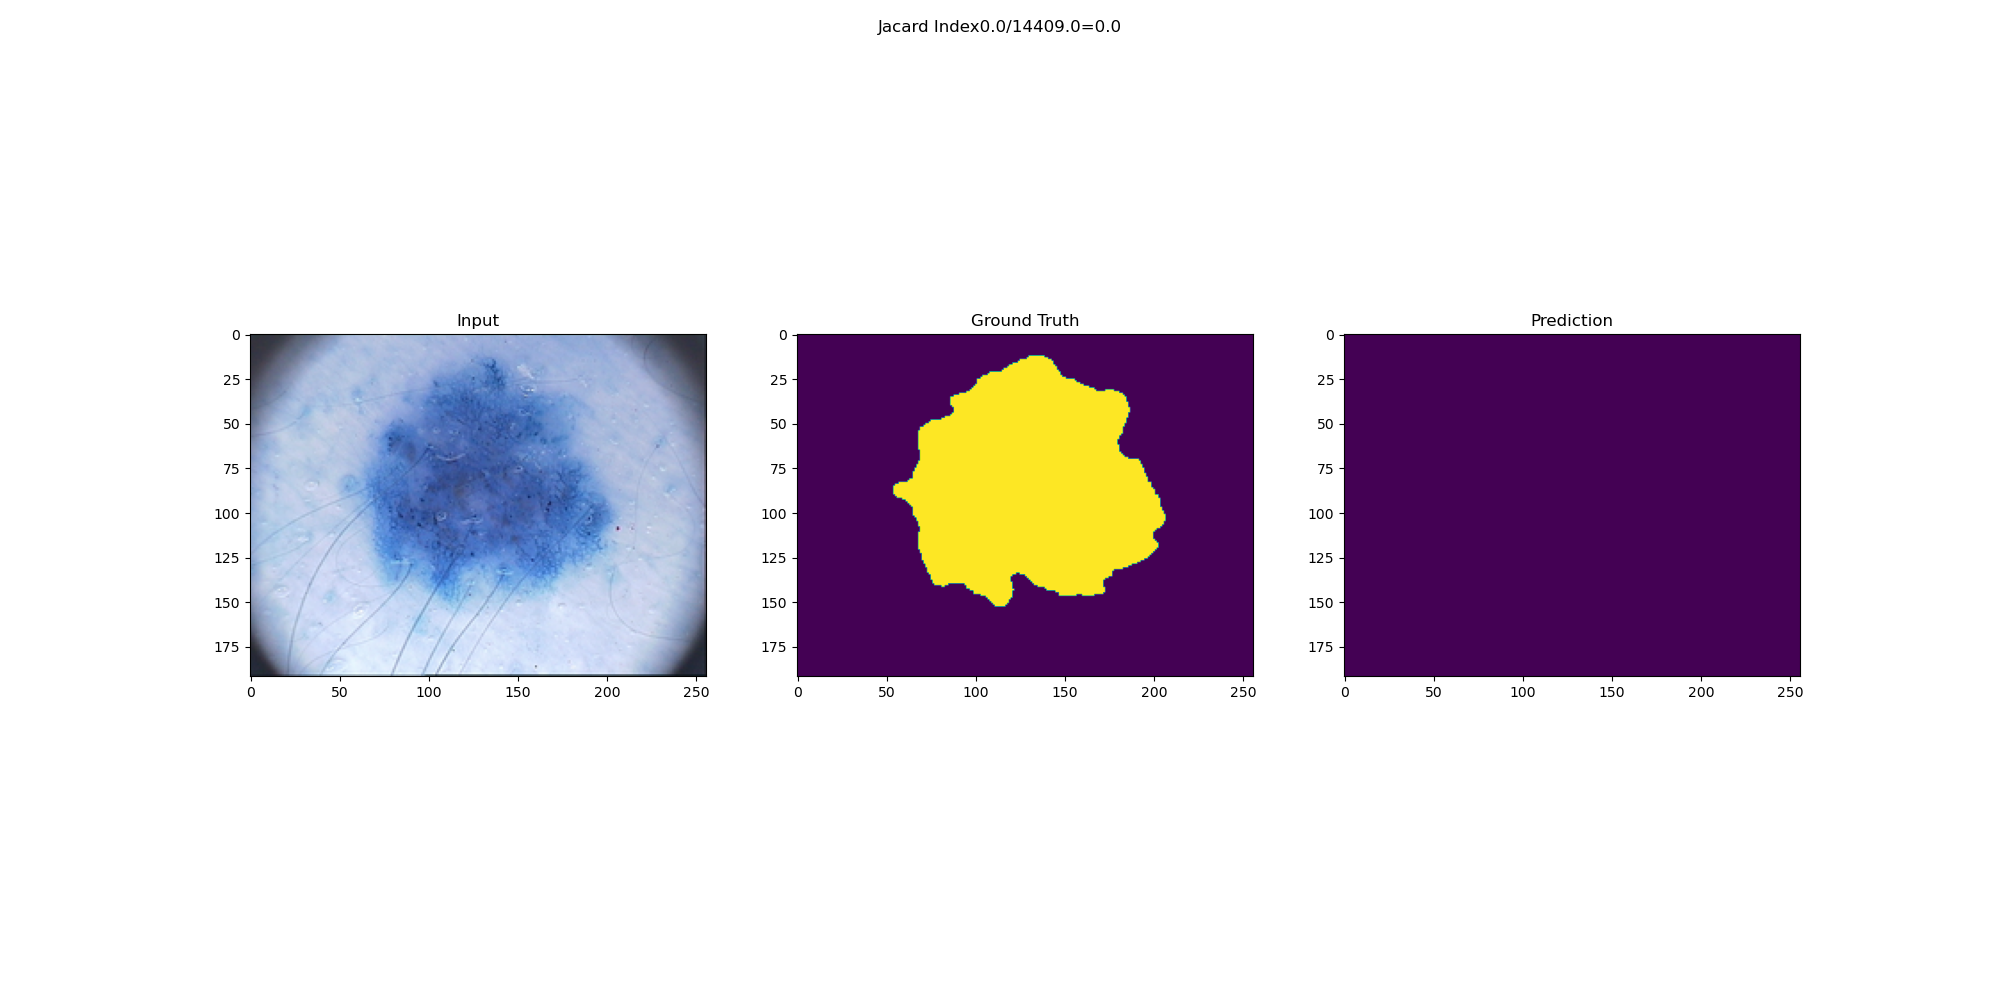
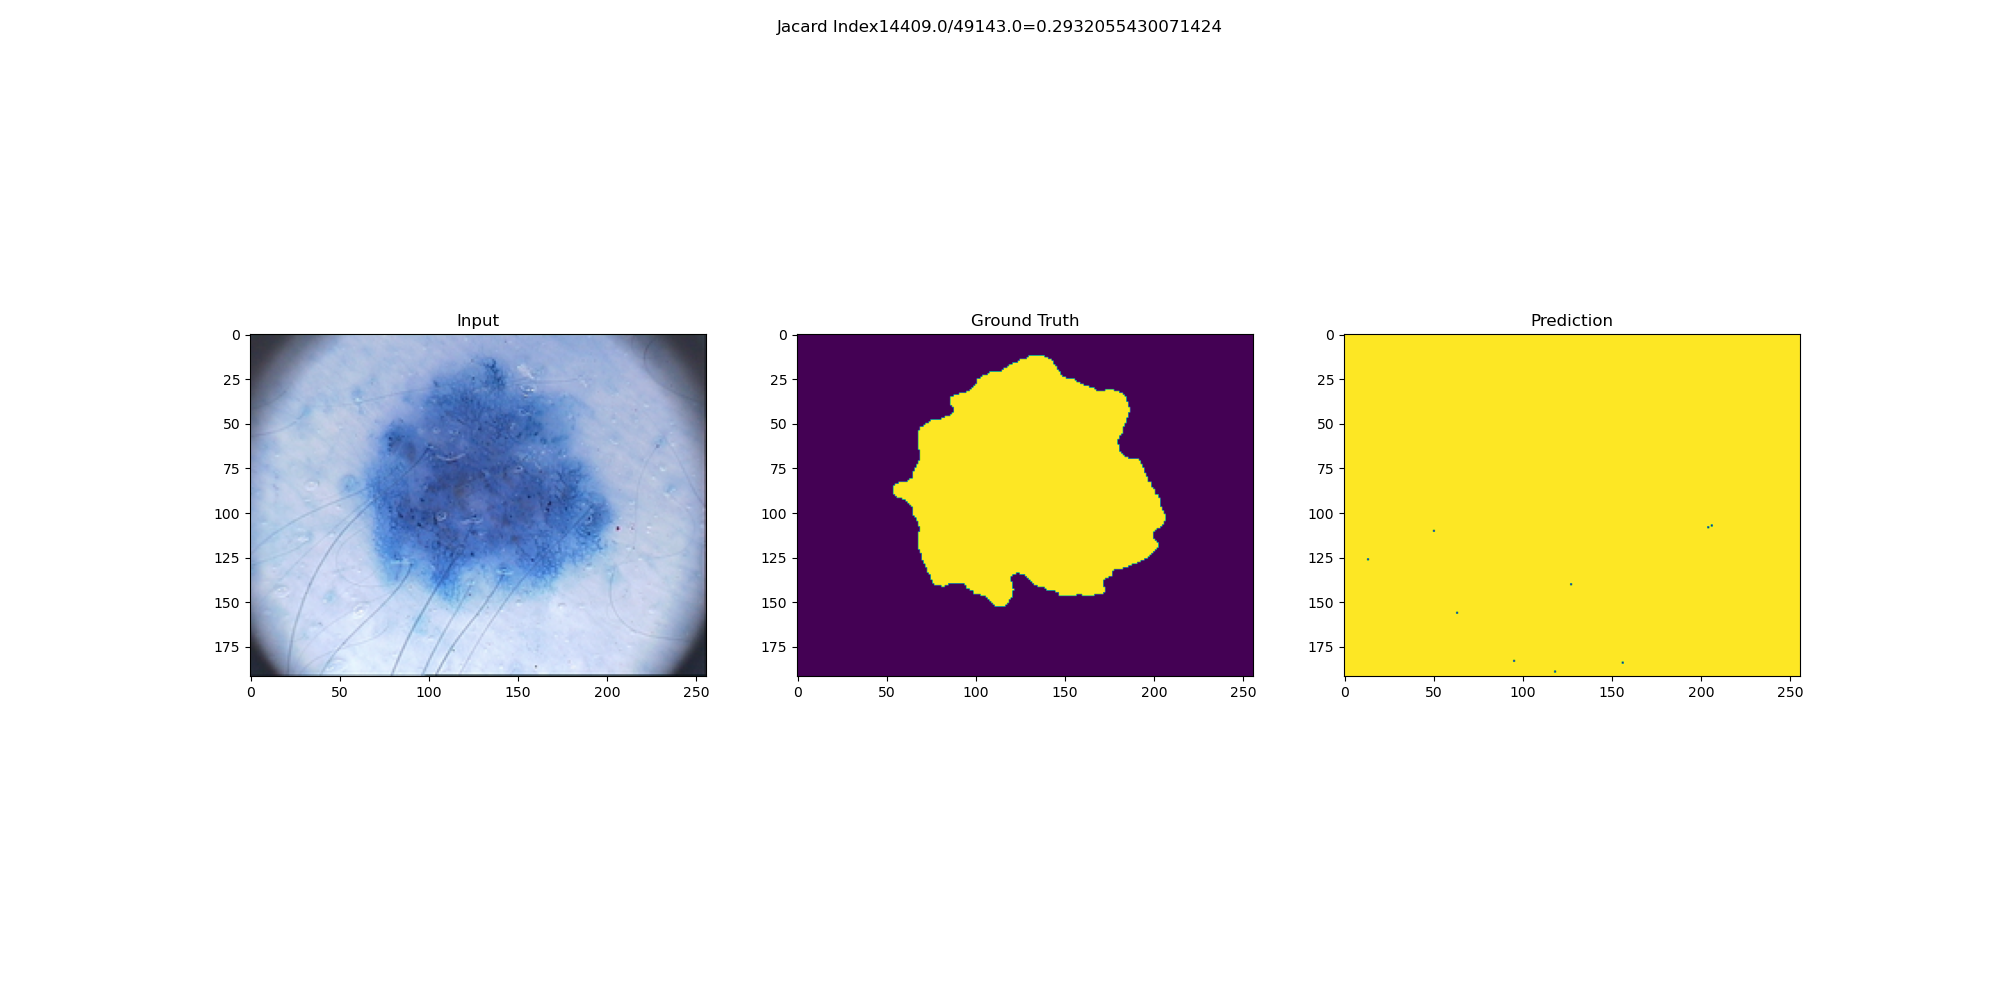
completed this stuff

Changed region(s): [[0.651, 0.31, 0.899, 0.682], [0.403, 0.0, 0.589, 0.031]]

diff --git a/SKIN_LEISON/FinalBayes/bayes_drrmsan_skin.py b/SKIN_LEISON/FinalBayes/bayes_drrmsan_skin.py
@@ -31,23 +31,27 @@ import pickle
 import drrmsan_multilosses
 
 
-# def f(x):
-#     """
-#     x is a 4D vector.
-#     Function which will send alpha_1, alpha_2, alpha_3 and alpha_4
-#     to the actual model and will get the dice coefficient in return.
-#     """
-#     alpha_1 = x[:, 0]
-#     alpha_2 = x[:, 1]
-#     alpha_3 = x[:, 2]
-#     alpha_4 = x[:, 3]
-#     print(alpha_1, " ", alpha_2," ",alpha_3," ",alpha_4)
-#     # Here we will send the alphas to the actual model and in return
-#     # we will recieve the dice coefficient to optimise, since this is
-#     # a maximization problem, we return the -ve of objective function
-#     # to be maximized
-#     dice_coef = drrmsan_multilosses.get_dice_from_alphas(float(alpha_1[0]), float(alpha_2[0]), float(alpha_3[0]), float(alpha_4[0]))
-#     return -dice_coef
+def f(x):
+    
+    # x is a 4D vector.
+    # Function which will send alpha_1, alpha_2, alpha_3 and alpha_4
+    # to the actual model and will get the dice coefficient in return.
+    
+    alpha_1 = x[:, 0][0]
+    alpha_2 = x[:, 1][0]
+    alpha_3 = x[:, 2][0]
+    alpha_4 = x[:, 3][0]
+    print(alpha_1, " ", alpha_2," ",alpha_3," ",alpha_4)
+    dice = drrmsan_multilosses.get_dice_from_alphas(float(alpha_1), float(alpha_2), float(alpha_3), float(alpha_4))
+    # Here we will send the alphas to the actual model and in return
+    # we will recieve the dice coefficient to optimise, since this is
+    # a maximization problem, we return the -ve of objective function
+    # to be maximized
+    # dice_coef = drrmsan_multilosses.get_dice_from_alphas(float(alpha_1[0]), float(alpha_2[0]), float(alpha_3[0]), float(alpha_4[0]))
+    # dice_coef =  float(alpha_1)+ float(alpha_2)+ float(alpha_3)+ float(alpha_4)
+    print(dice)
+    return dice
+
 
 
 domain = [{'name': 'alpha_1', 'type': 'continuous', 'domain': (0,1), 'dimensionality':1},
@@ -59,28 +63,13 @@ constraints = [{'name': 'constr_1', 'constraint': '0.9999 - x[:,0] - x[:,1] - x[
                {'name': 'constr_1', 'constraint': '-1.00001 + x[:,0] + x[:,1] + x[:,2] + x[:,3]'}]
 
 
-# alpha_1_list = []
-# alpha_2_list = []
-# alpha_3_list = []
-# alpha_4_list = []
-# for i in range(20):
-#     alphas = np.random.dirichlet(np.ones(4),size=1)
-#     #print("case = ", i+1, " ", alphas[0][0], alphas[0][1], alphas[0][2], alphas[0][3])
-#     alpha_1_list.append(float("%0.2f" % (alphas[0][0])))
-#     alpha_2_list.append(float("%0.2f" % (alphas[0][1])))
-#     alpha_3_list.append(float("%0.2f" % (alphas[0][2])))
-#     alpha_4_list.append(float("%0.2f" % (alphas[0][3])))
-# alpha_1_np = np.array(alpha_1_list)
-# alpha_2_np = np.array(alpha_2_list)
-# alpha_3_np = np.array(alpha_3_list)
-# alpha_4_np = np.array(alpha_4_list)
-# alpha_1, alpha_2, alpha_3, alpha_4 = np.meshgrid(alpha_1_np, alpha_2_np, alpha_3_np, alpha_4_np)
 
-maxiter = 5
+maxiter = 20
 
 kernel = GPy.kern.Matern52(input_dim=4, ARD=True, variance=1, lengthscale=[1,1,1,1]);
 
-myBopt_4d = GPyOpt.methods.BayesianOptimization(drrmsan_multilosses.get_dice_from_alphas, domain=domain, constraints = constraints,kernel=kernel,
+myBopt_4d = GPyOpt.methods.BayesianOptimization(f, domain=domain, 
+                                                constraints = constraints, kernel=kernel,
                                                 acquisition_type ='EI', model_type='GP', verbosity=True,
                                                 acquisition_optimizer_type='lbfgs', cost_withGradients=None,
                                                 exact_feval=True)
@@ -90,17 +79,6 @@ print("="*20)
 print("Value of (x,y) that minimises the objective:"+str(myBopt_4d.x_opt))
 print("Minimum value of the objective: "+str(myBopt_4d.fx_opt))
 print("="*20)
-
-#myBopt_4d.plot_acquisition()
-# maxiter = 20
-
-# myBopt_4d = GPyOpt.methods.BayesianOptimization(drrmsan_multilosses.get_dice_from_alphas, domain=domain)
-# myBopt_4d.run_optimization(max_iter = maxiter, verbosity=True)
-# print("="*20)
-# print("Value of (x,y) that minimises the objective:"+str(myBopt_4d.x_opt))
-# print("Minimum value of the objective: "+str(myBopt_4d.fx_opt))
-# print("="*20)
-# #myBopt_4d.plot_acquisition()
 
 
 

diff --git a/SKIN_LEISON/FinalBayes/drrmsan_multilosses.py b/SKIN_LEISON/FinalBayes/drrmsan_multilosses.py
@@ -1,6 +1,8 @@
 
 
-def get_dice_from_alphas(x):
+#def get_dice_from_alphas(x):
+dice = 0
+def get_dice_from_alphas(alpha_1, alpha_2, alpha_3, alpha_4):
     """
     from numba import cuda
     cuda.select_device(0)
@@ -10,17 +12,19 @@ def get_dice_from_alphas(x):
     gpus = tf.config.experimental.list_physical_devices('GPU')
     for gpu in gpus:
         tf.config.experimental.set_memory_growth(gpu, True)
+    
+    alpha_1 = x[:, 0]
+    alpha_2 = x[:, 1]
+    alpha_3 = x[:, 2]
+    alpha_4 = x[:, 3]
     """
-    alpha_1 = x[:, 0][0]
-    alpha_2 = x[:, 1][0]
-    alpha_3 = x[:, 2][0]
-    alpha_4 = x[:, 3][0]
     alpha_1 = float(alpha_1)
     alpha_2 = float(alpha_2)
     alpha_3 = float(alpha_3) 
     alpha_4 = float(alpha_4)
-    val = 0
+    #global dice_val = 0
     print(alpha_1, " ", alpha_2," ",alpha_3," ",alpha_4)
+    print("Total => ",alpha_1+alpha_2+alpha_3+alpha_4)
     
     import os
     import numpy as np
@@ -60,7 +64,7 @@ def get_dice_from_alphas(x):
     ## Hyperparameters
 
     #IMG_SIZE = 256
-    EPOCHS = 2
+    EPOCHS = 150
     BATCH = 2
     LR = 1e-5
 
@@ -219,8 +223,8 @@ def get_dice_from_alphas(x):
         epochs=EPOCHS,
         steps_per_epoch=train_steps,
         validation_steps=valid_steps,
-        callbacks=callbacks
-        #verbose=2
+        callbacks=callbacks,
+        verbose=2
     )
 
     import pandas as pd
@@ -256,13 +260,13 @@ def get_dice_from_alphas(x):
 
     # Run this module only while loading the pre-trained model.
     model = load_model('skin_drrmsan_with_weight_150e.h5',custom_objects={'dice_loss': dice_loss,'dice_coef':dice_coef, 'jacard':jacard})
-    model.summary()
+    #model.summary()
 
 
 
     jaccard_index_list = []
     dice_coeff_list = []
-
+    
     def evaluateModel(model, X_test, Y_test, batchSize):  
         
         try:
@@ -303,9 +307,8 @@ def get_dice_from_alphas(x):
 
 
         jacard = 0
+        global dice 
         dice = 0
-
-
         for i in range(len(Y_test)):
             yp_2 = yp[i].ravel()
             y2 = Y_test[i].ravel()
@@ -319,13 +322,14 @@ def get_dice_from_alphas(x):
 
 
         jacard /= len(Y_test)
+        
         dice /= len(Y_test)
 
 
 
         print('Jacard Index : '+str(jacard))
         print('Dice Coefficient : '+str(dice))
-        val = dice
+
         with open("Output.txt", "w") as text_file:
             text_file.write("Jacard : {} Dice Coef : {} ".format(str(jacard), str(dice)))
 
@@ -348,6 +352,15 @@ def get_dice_from_alphas(x):
             fp.close()
 
             #saveModel(model)
+
+        print("00"*50)
+        f = open("./bayesian_opt.txt", "a+")
+        dump_str = str(alpha_1) + " " + str(alpha_2) + " " + str(alpha_3) + " " + str(alpha_4) + " " + str(dice)
+        f.write(dump_str)
+        f.close()
+        print("Dice Value Used = ", -float(dice))
+        del model
+        print("Model deleted and dice value returned!!")
 
 
     from tqdm import tqdm
@@ -391,13 +404,15 @@ def get_dice_from_alphas(x):
     fp.close()
 
     evaluateModel(model, X_test, Y_test, BATCH)
+    del model, history, X_test, train_data, valid_data, Y_test
 
+    print("Model deleted!!")
 
-    import json
-    import matplotlib.pyplot as plt
+    #import json
+    #import matplotlib.pyplot as plt
 
-    with open('history_skin_drrmsan.json', 'r') as f:
-        array = json.load(f)
+    #with open('history_skin_drrmsan.json', 'r') as f:
+    #    array = json.load(f)
     #print (array)
     #print(json.dumps(array, indent=4, sort_keys=True))
 
@@ -406,9 +421,8 @@ def get_dice_from_alphas(x):
     #        val = array[item]['9']
     #        print("Dice Value got = ",val)
     # return the -ve of dice value
-    print("00"*50)
-    print("Dice Value Used = ", val)
-    return -float(val)
+    global dice
+    return -float(dice)
 
 
 

diff --git a/models/DRRMSAN_BAYES.py b/models/DRRMSAN_BAYES.py
@@ -512,7 +512,7 @@ def DRRMSAN_multiscale_attention_bayes(height, width, n_channels, alpha_1, alpha
     # weighted averaging all the output masks obtained at different scales
     # alpha_1 = least scale, alpha_4 = same scale as I
 
-    out10 = add([alpha_1 * out6, alpha_2 * out7, alpha_3 * out8, alpha_4 * out9])
+    out10 = Conv2D(1, (3, 3), activation='sigmoid', padding='same', kernel_initializer = 'he_normal', kernel_regularizer=l2(1e-4), name='out_10')(add([alpha_1 * out6, alpha_2 * out7, alpha_3 * out8, alpha_4 * out9]))
 
     #conv10 = conv2d_bn(out10, 1, 1, 1, activation='sigmoid')
 

diff --git a/BayesianOpt/a.py b/BayesianOpt/a.py
@@ -1,0 +1,18 @@
+# --- Load GPyOpt
+from GPyOpt.methods import BayesianOptimization
+import numpy as np
+
+# --- Define your problem
+def f(x): 
+    x1 = x[:,0]
+    x2 = x[:,1]
+    return (6*x1-2)**2*np.sin(12*x2-4)
+domain = [{'name': 'var_1', 'type': 'continuous', 'domain': (0,1)},
+        {'name': 'var_2', 'type': 'continuous', 'domain': (0,1)}]
+
+# --- Solve your problem
+myBopt = BayesianOptimization(f=f, domain=domain)
+myBopt.run_optimization(max_iter=15)
+myBopt.plot_acquisition()
+
+

diff --git a/SKIN_LEISON/FinalBayes/testF.py b/SKIN_LEISON/FinalBayes/testF.py
@@ -62,7 +62,7 @@ constraints = [{'name': 'constr_1', 'constraint': '0.9999 - x[:,0] - x[:,1] - x[
 
 
 
-maxiter = 20
+maxiter = 50
 
 kernel = GPy.kern.Matern52(input_dim=4, ARD=True, variance=1, lengthscale=[1,1,1,1]);
 
